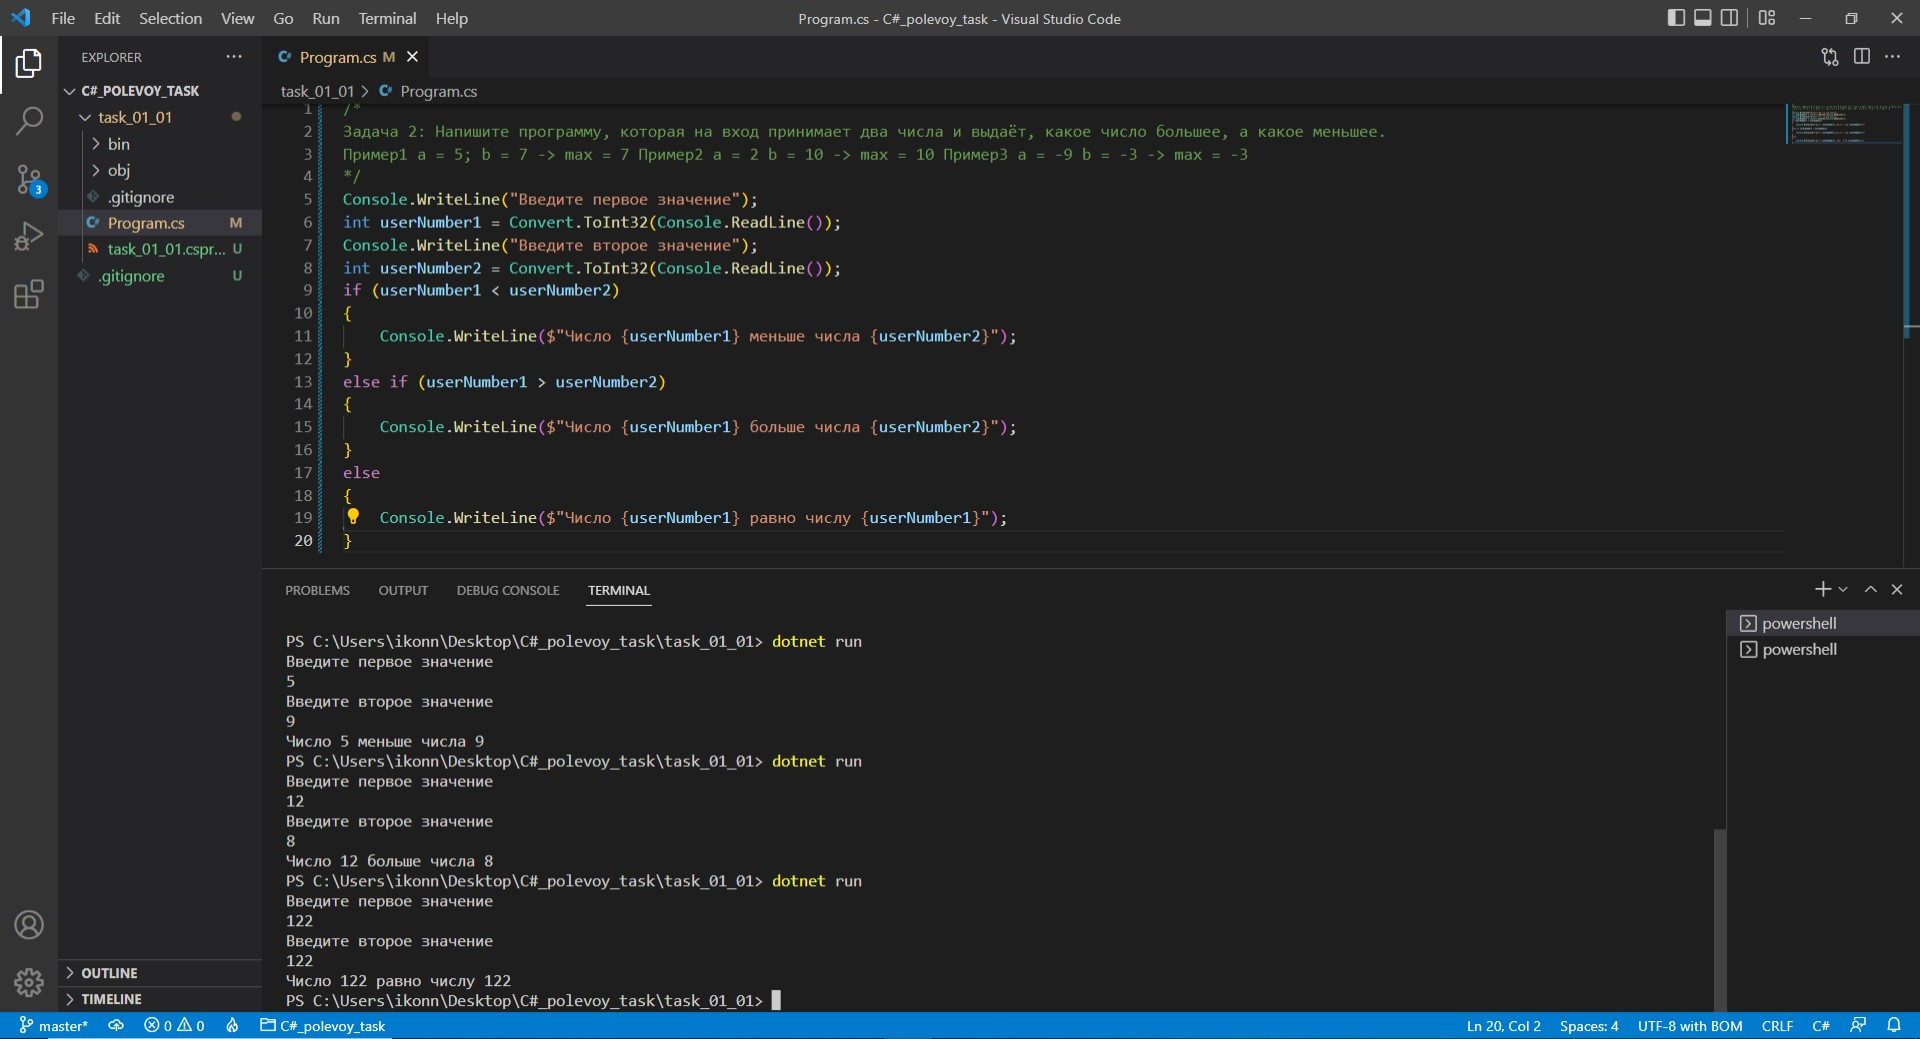
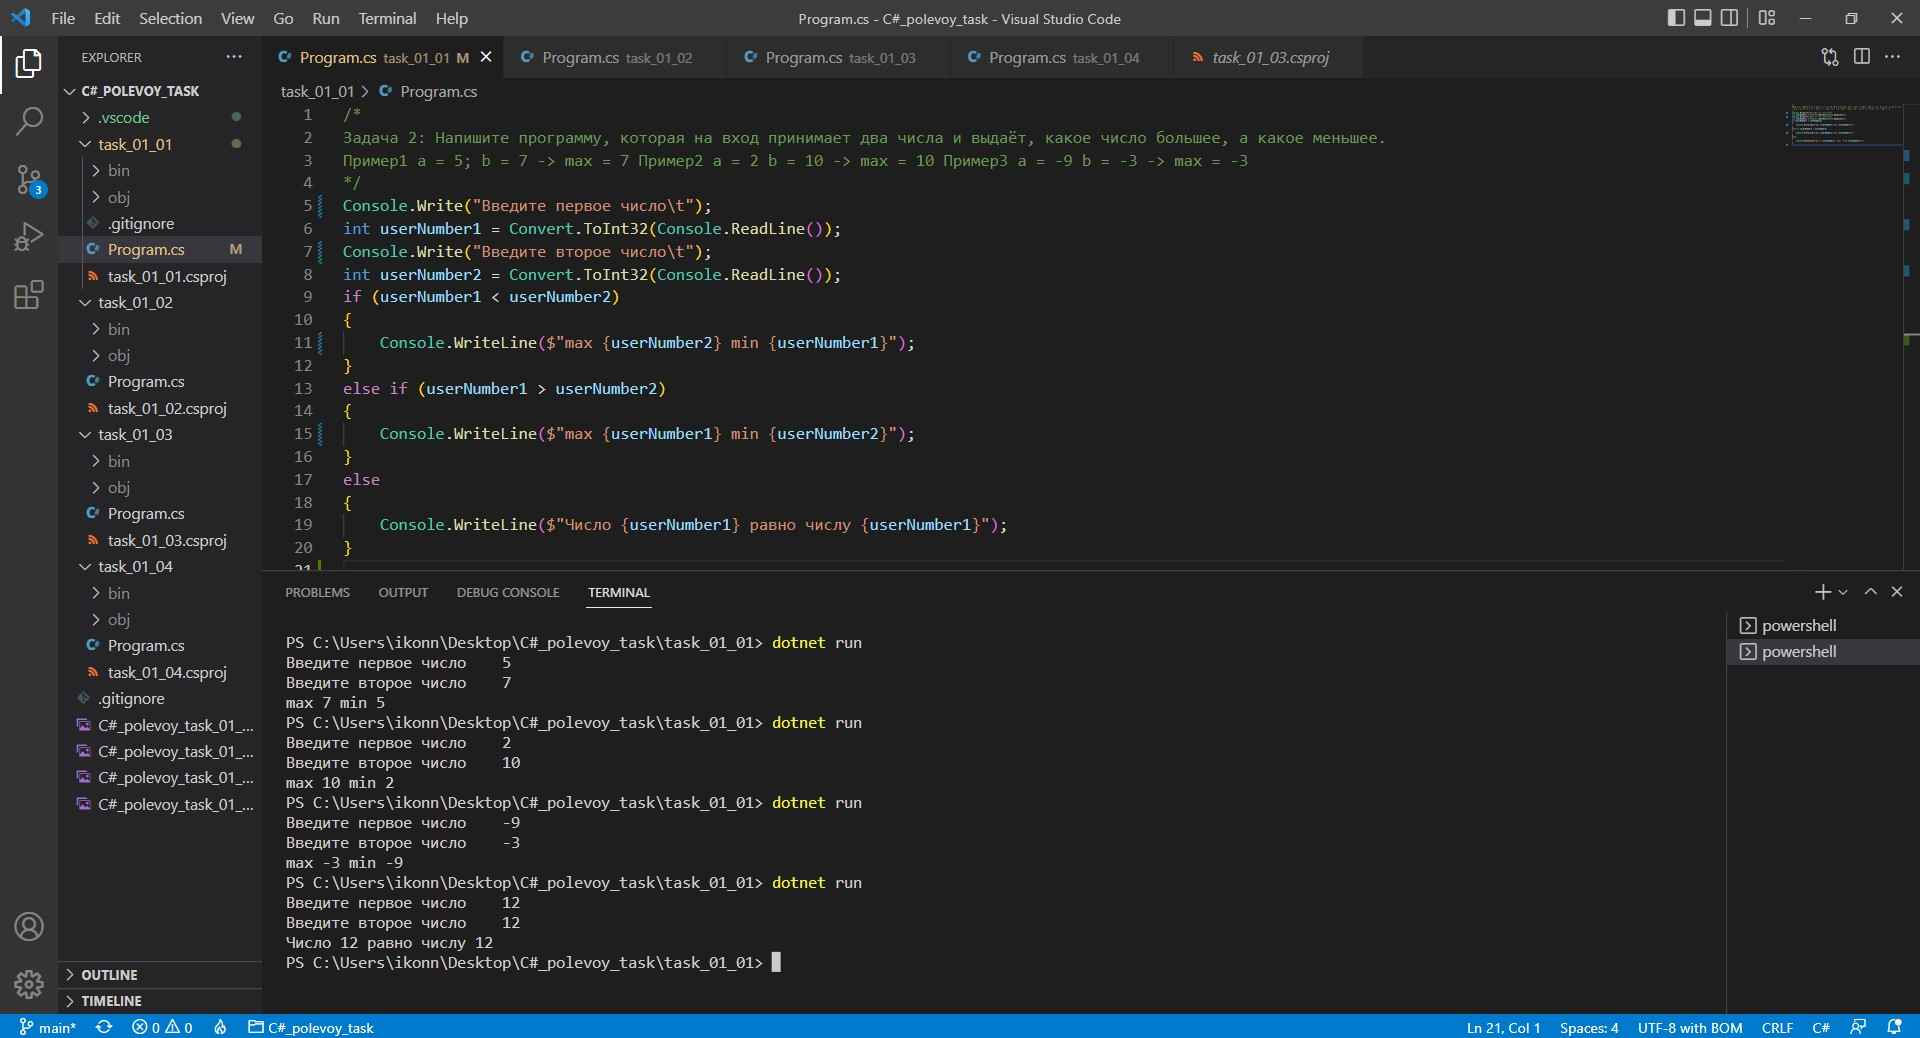
task_01_01 fix

diff --git a/task_01_01/Program.cs b/task_01_01/Program.cs
@@ -2,17 +2,17 @@
 Задача 2: Напишите программу, которая на вход принимает два числа и выдаёт, какое число большее, а какое меньшее.
 Пример1 a = 5; b = 7 -> max = 7 Пример2 a = 2 b = 10 -> max = 10 Пример3 a = -9 b = -3 -> max = -3
 */
-Console.WriteLine("Введите первое значение");
+Console.Write("Введите первое число\t");
 int userNumber1 = Convert.ToInt32(Console.ReadLine());
-Console.WriteLine("Введите второе значение");
+Console.Write("Введите второе число\t");
 int userNumber2 = Convert.ToInt32(Console.ReadLine());
 if (userNumber1 < userNumber2)
 {
-    Console.WriteLine($"Число {userNumber1} меньше числа {userNumber2}");
+    Console.WriteLine($"max {userNumber2} min {userNumber1}");
 }
 else if (userNumber1 > userNumber2)
 {
-    Console.WriteLine($"Число {userNumber1} больше числа {userNumber2}");
+    Console.WriteLine($"max {userNumber1} min {userNumber2}");
 }
 else
 {
